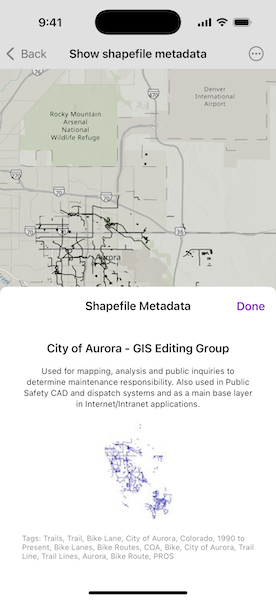
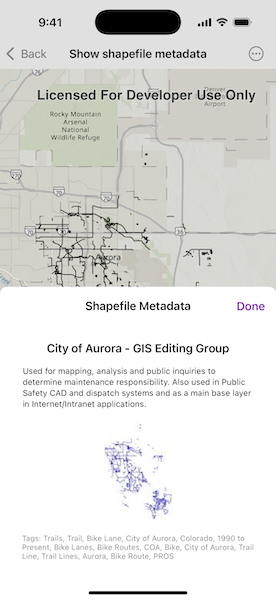
update image

Changed region(s): [[0.087, 0.6, 0.9275, 0.69], [0.1159, 0.15, 0.9275, 0.18]]

diff --git a/Shared/Samples/Show shapefile metadata/ShowShapefileMetadataView.swift b/Shared/Samples/Show shapefile metadata/ShowShapefileMetadataView.swift
@@ -25,50 +25,47 @@ struct ShowShapefileMetadataView: View {
     
     var body: some View {
         MapViewReader { mapView in
-            ZStack {
-                MapView(map: model.map)
-            }
-            .onAppear {
-                Task {
-                    do {
-                        // Attempt to asynchronously load the feature layer from the model.
-                        try await model.loadShapefile()
-                        
-                        // If the feature layer has a full extent, use it to set the map's viewpoint.
-                        if let fullExtent = model.featureLayer?.fullExtent {
-                            await mapView.setViewpointGeometry(fullExtent, padding: 50)
+            MapView(map: model.map)
+                .onAppear {
+                    Task {
+                        do {
+                            // Attempt to asynchronously load the feature layer from the model.
+                            try await model.loadShapefile()
+                            // If the feature layer has a full extent, use it to set the map's viewpoint.
+                            if let fullExtent = model.featureLayer?.fullExtent {
+                                await mapView.setViewpointGeometry(fullExtent, padding: 50)
+                            }
+                        } catch {
+                            self.error = error
                         }
-                    } catch {
-                        self.error = error
                     }
                 }
-            }
-            .toolbar {
-                ToolbarItem(placement: .bottomBar) {
-                    Button("Show Shapefile Metadata") {
-                        self.showMetadata.toggle()
-                    }
-                    .popover(isPresented: $showMetadata) {
-                        if showMetadata {
-                            NavigationStack {
-                                MetadataPanel(model: $model)
-                                    .navigationTitle("Shapefile Metadata")
-                                    .navigationBarTitleDisplayMode(.inline)
-                                    .toolbar {
-                                        ToolbarItem(placement: .confirmationAction) {
-                                            Button("Done") {
-                                                showMetadata = false
+                .toolbar {
+                    ToolbarItem(placement: .bottomBar) {
+                        Button("Show Shapefile Metadata") {
+                            self.showMetadata.toggle()
+                        }
+                        .popover(isPresented: $showMetadata) {
+                            if showMetadata {
+                                NavigationStack {
+                                    MetadataPanel(model: $model)
+                                        .navigationTitle("Shapefile Metadata")
+                                        .navigationBarTitleDisplayMode(.inline)
+                                        .toolbar {
+                                            ToolbarItem(placement: .confirmationAction) {
+                                                Button("Done") {
+                                                    showMetadata = false
+                                                }
                                             }
                                         }
-                                    }
+                                }
+                                .presentationDetents([.fraction(0.55)])
+                                .frame(idealWidth: 320, idealHeight: 380)
                             }
-                            .presentationDetents([.fraction(0.55)])
-                            .frame(idealWidth: 320, idealHeight: 380)
                         }
                     }
                 }
-            }
-            .errorAlert(presentingError: $error)
+                .errorAlert(presentingError: $error)
         }
     }
 }
@@ -116,7 +113,7 @@ private extension ShowShapefileMetadataView {
                 if let summary = model.shapefileInfo?.summary {
                     Text(summary)
                         .font(.caption)
-                        .multilineTextAlignment(.center)
+                        .multilineTextAlignment(.leading)
                 }
                 
                 if let image = model.thumbnailImage {
